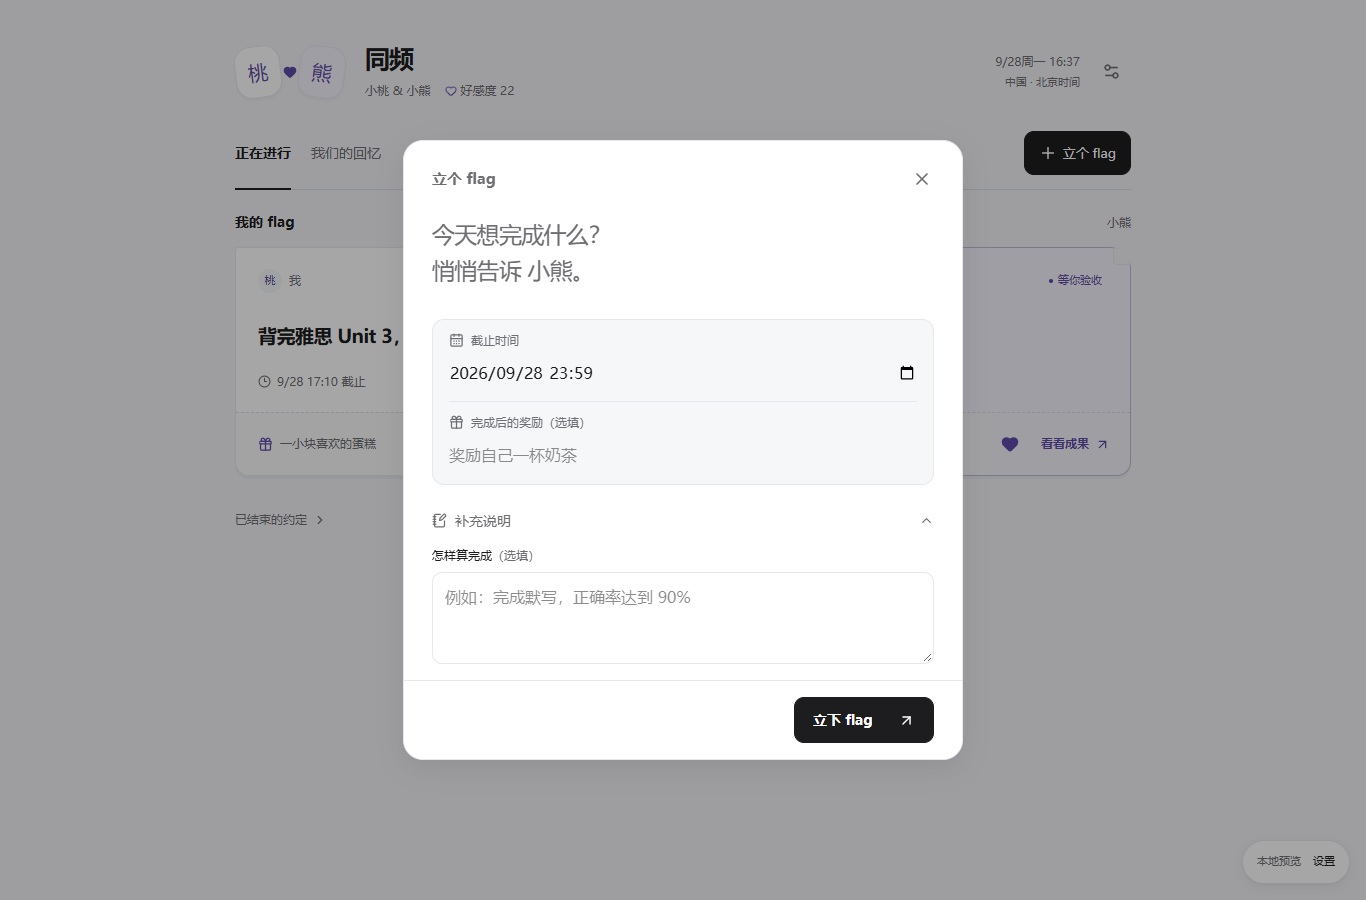
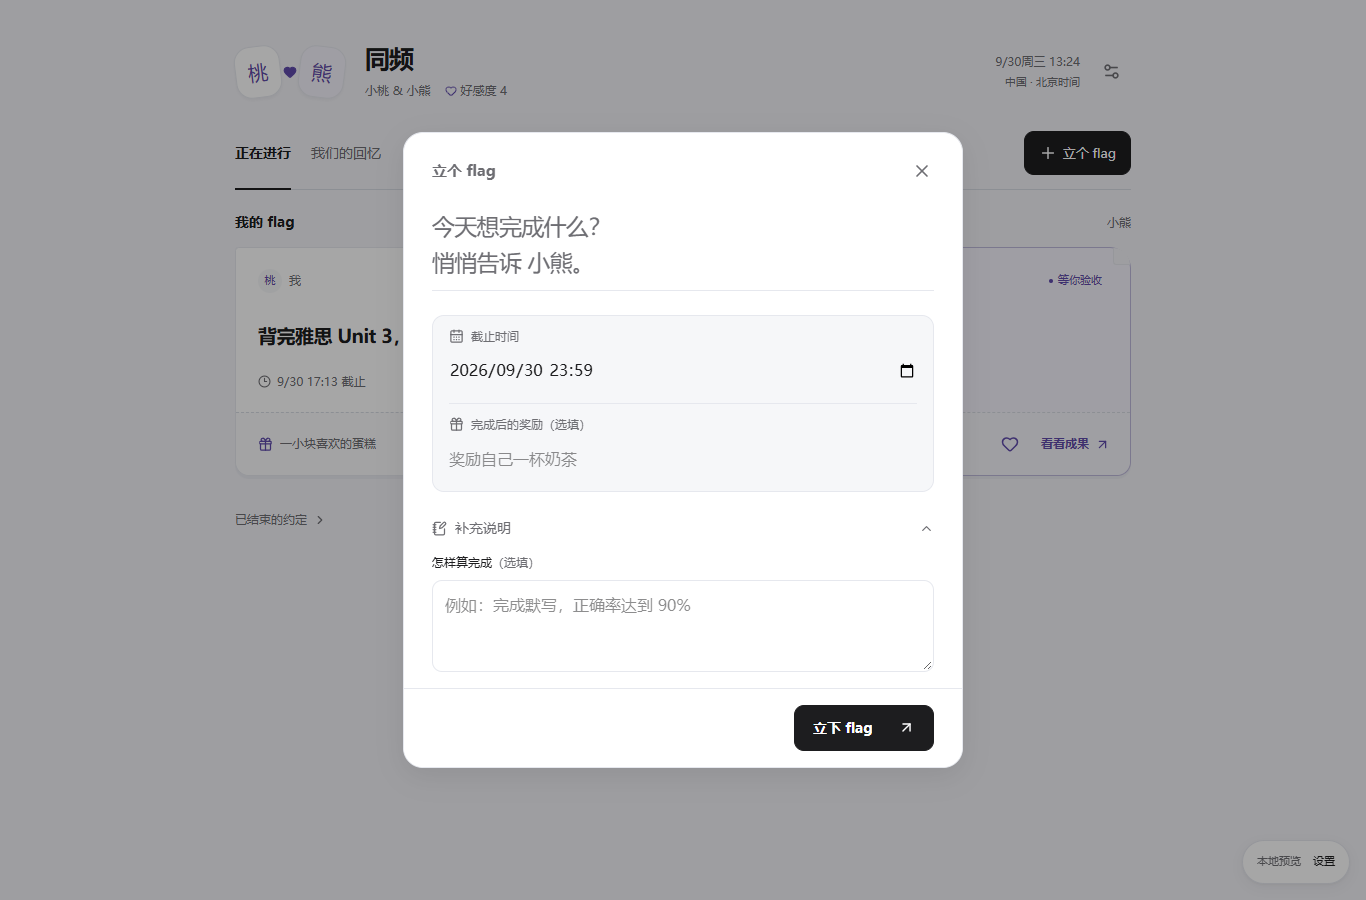
fix(together)：收敛输入焦点并避免描边遮挡标签

diff --git a/e2e/together.spec.ts b/e2e/together.spec.ts
@@ -10,6 +10,66 @@ async function choosePreview(page: Page, label: string, value?: string) {
   await page.locator('.together-preview-dock > summary').click();
 }
 
+/** 验证真实输入焦点不会侵入标签；覆盖自动聚焦、鼠标、键盘和系统高对比度。 */
+test('创建表单的焦点留在字段内，不遮挡标签或改变布局', async ({ page }) => {
+  await page.emulateMedia({ reducedMotion: 'reduce' });
+  await page.goto('/together-preview');
+  for (const mode of ['light', 'dark']) {
+    for (const width of [1366, 320]) {
+      await page.setViewportSize({ width, height: 900 });
+      await page.getByRole('button', { name: '立个 flag', exact: true }).click();
+      const editor = page.getByRole('dialog', { name: '立个 flag', exact: true });
+      const goal = editor.getByLabel('目标', { exact: true });
+      const reward = editor.getByLabel('完成后的奖励（选填）');
+      await expect(goal).toBeFocused();
+      const unfocusedBounds = await reward.boundingBox();
+      // 焦点不得向外扩张，必须仍有可见指示；同时记录用户实际看到的聚焦画面。
+      for (const [field, name] of [
+        [goal, 'goal'],
+        [reward, 'reward'],
+      ] as const) {
+        await field.click();
+        await expect(field).toBeFocused();
+        const indicator = await field.evaluate((node) => {
+          const style = getComputedStyle(node);
+          return { outline: style.outlineStyle, shadow: style.boxShadow };
+        });
+        expect(indicator.outline).toBe('none');
+        expect(indicator.shadow).toContain('inset');
+        expect(indicator.shadow).not.toContain('rgba(0, 0, 0, 0)');
+        if (mode === 'dark')
+          await editor.screenshot({
+            path: `docs/screenshots/together/editor-focus-${name}-${width === 1366 ? 'desktop' : 'mobile'}.png`,
+          });
+      }
+      expect(await reward.boundingBox()).toEqual(unfocusedBounds);
+      const label = await editor
+        .locator('.together-editor-caption')
+        .last()
+        .boundingBox();
+      expect(unfocusedBounds!.y - label!.y - label!.height).toBeGreaterThanOrEqual(6);
+      // 用实际 Tab/Enter 走到折叠说明，再进入文本框，验证焦点不会丢失。
+      await page.keyboard.press('Tab');
+      await expect(editor.locator('summary')).toBeFocused();
+      await page.keyboard.press('Enter');
+      await page.keyboard.press('Tab');
+      const notes = editor.getByLabel('怎样算完成（选填）');
+      await expect(notes).toBeFocused();
+      await expect(notes).toHaveCSS('outline-offset', '-2px');
+      expect(
+        await editor.evaluate((node) => node.scrollWidth <= node.clientWidth),
+      ).toBe(true);
+      await page.emulateMedia({ forcedColors: 'active' });
+      await reward.click();
+      await expect(reward).toHaveCSS('outline-style', 'solid');
+      await expect(reward).toHaveCSS('outline-offset', '-2px');
+      await page.emulateMedia({ forcedColors: 'none' });
+      await page.keyboard.press('Escape');
+    }
+    if (mode === 'light') await choosePreview(page, '切换深浅色');
+  }
+});
+
 test('微信成果、对方验收、昵称与本地时区', async ({ page }) => {
   await page.goto('/together-preview');
   await expect(page.getByRole('heading', { name: '同频', exact: true })).toBeVisible();

diff --git a/src/features/together/flag-editor.css b/src/features/together/flag-editor.css
@@ -30,8 +30,8 @@
 }
 .together-editor .together-editor-goal textarea {
   border: 0;
-  border-radius: 6px;
-  padding: 4px 0;
+  border-radius: 0;
+  padding: 4px 0 10px;
   min-height: 82px;
   max-height: 180px;
   background: transparent;
@@ -40,6 +40,7 @@
   line-height: 1.55;
   letter-spacing: -0.03em;
   resize: none;
+  box-shadow: inset 0 -1px var(--border);
 }
 .together-editor .together-editor-goal textarea::placeholder {
   color: var(--text-secondary);
@@ -57,7 +58,7 @@
 .together-editor label.together-editor-property {
   margin: 0;
   padding: 12px 0 8px;
-  gap: 0;
+  gap: 6px;
 }
 .together-editor-property + .together-editor-property {
   border-top: 1px solid var(--border);
@@ -78,10 +79,16 @@
 .together-editor .together-editor-property input {
   border: 0;
   background: transparent;
-  padding: 7px 0 3px;
+  padding: 4px 0 8px;
   min-height: 44px;
   font-size: 16px;
-  border-radius: 4px;
+  border-radius: 0;
+}
+/* 无边框字段的焦点留在输入区内，避免通用外描边盖住相邻标签。 */
+.together-dialog.together-editor .together-editor-goal textarea:focus-visible,
+.together-dialog.together-editor .together-editor-property input:focus-visible {
+  outline: none;
+  box-shadow: inset 0 -2px var(--accent-text);
 }
 .together-editor details.together-editor-notes {
   margin: 14px 0 0;
@@ -115,6 +122,19 @@
   border-color: var(--border);
   border-radius: 10px;
   line-height: 1.6;
+}
+.together-dialog.together-editor .together-editor-notes textarea:focus-visible {
+  outline: 2px solid var(--accent-text);
+  outline-offset: -2px;
+}
+/* 系统高对比度模式不显示 box-shadow，改用控件内部的系统焦点描边。 */
+@media (forced-colors: active) {
+  .together-dialog.together-editor .together-editor-goal textarea:focus-visible,
+  .together-dialog.together-editor .together-editor-property input:focus-visible,
+  .together-dialog.together-editor .together-editor-notes textarea:focus-visible {
+    outline: 2px solid Highlight;
+    outline-offset: -2px;
+  }
 }
 .together-editor-footer {
   position: sticky;

diff --git a/src/features/together/dialog.tsx b/src/features/together/dialog.tsx
@@ -1,9 +1,16 @@
 /** @fileoverview 原生模态承载编辑和右侧详情，提供焦点隔离、Escape 退出与返回焦点。 */
 'use client';
-import { useEffect, useId, useRef, useState, type ReactNode } from 'react';
+import {
+  useEffect,
+  useId,
+  useRef,
+  useState,
+  type ReactNode,
+  type RefObject,
+} from 'react';
 import { createPortal } from 'react-dom';
 import { X } from 'lucide-react';
-/** 桌面抽屉与手机全屏共用原生 dialog；忙碌时阻止误关闭。 */
+/** 共用原生模态；可见后聚焦可选的字段引用，关闭后返回打开者，忙碌时阻止误关闭。 */
 export function SpaceDialog({
   title,
   children,
@@ -12,6 +19,7 @@ export function SpaceDialog({
   error = '',
   drawer = false,
   className = '',
+  initialFocusRef,
 }: {
   title: string;
   children: ReactNode;
@@ -20,6 +28,7 @@ export function SpaceDialog({
   error?: string;
   drawer?: boolean;
   className?: string;
+  initialFocusRef?: RefObject<HTMLElement | null>;
 }) {
   const ref = useRef<HTMLDialogElement>(null);
   const id = useId();
@@ -28,11 +37,13 @@ export function SpaceDialog({
   useEffect(() => {
     const dialog = ref.current;
     dialog?.showModal();
+    // React autoFocus 可能先于 showModal 执行；可见后再聚焦指定字段。
+    initialFocusRef?.current?.focus({ preventScroll: true });
     return () => {
       dialog?.close();
       previous?.focus();
     };
-  }, [previous]);
+  }, [previous, initialFocusRef]);
   return createPortal(
     <dialog
       ref={ref}

diff --git a/src/features/together/flag-editor.tsx b/src/features/together/flag-editor.tsx
@@ -1,6 +1,6 @@
 /** @fileoverview 目标优先的轻量编辑器；属性集中排列，默认账号当天截止，提交后由服务端锁定。 */
 'use client';
-import { useState, type FormEvent } from 'react';
+import { useRef, useState, type FormEvent } from 'react';
 import {
   CalendarDays,
   ChevronDown,
@@ -27,6 +27,7 @@ export function FlagEditor({
 }) {
   const { user } = useTogether();
   const command = useSpaceCommand();
+  const goalRef = useRef<HTMLTextAreaElement>(null);
   const [zone] = useState(getAccountTimezone);
   const [title, setTitle] = useState(flag?.title ?? '');
   const [reward, setReward] = useState(flag?.reward ?? '');
@@ -57,6 +58,7 @@ export function FlagEditor({
     <SpaceDialog
       title={flag ? '编辑 flag' : '立个 flag'}
       className="together-editor"
+      initialFocusRef={goalRef}
       onClose={onClose}
       {...command}
     >
@@ -65,7 +67,7 @@ export function FlagEditor({
           <label className="together-editor-goal">
             <span className="sr-only">目标</span>
             <textarea
-              autoFocus
+              ref={goalRef}
               required
               rows={2}
               maxLength={100}

diff --git a/docs/together-space.md b/docs/together-space.md
@@ -28,6 +28,22 @@
 
 创建弹窗参考 [Linear 的任务创建流程](https://linear.app/docs/creating-issues)：目标用无外框的大字输入，截止与奖励合并为浅底属性区，补充说明用自定义折叠行展开；桌面主按钮靠右，手机主按钮整行呈现，滚动时底部操作区保持可见。专用样式只作用于目标编辑器，其他详情和设置弹窗保持不变；保留原生日期选择、账号时区、必填校验和错误时输入。新版编辑器另经 320 像素 × 四主题 × 深浅色检查，无横向溢出，axe 无违规。
 
+### 编辑器焦点审计（2026-09-30）
+
+原先的通用 `2px outline + 4px outline-offset` 直接作用于无边框字段：目标聚焦后出现抢眼的大框；奖励字段与标签间距为零，外描边进入标签区域。此前静态截图、axe 与业务闭环未覆盖这些交互状态，不能据此认定焦点设计正确。
+
+参考 [Carbon Text input 的状态与间距规范](https://carbondesignsystem.com/components/text-input/style/) 和 [W3C Focus Visible](https://www.w3.org/WAI/WCAG21/Understanding/focus-visible)，按本项目的紧凑布局落实为：
+
+- 目标保留浅色底线，目标、日期与奖励在聚焦时显示字段内部的 2px 主题色底线；标签与输入框间隔 6px，聚焦不改变尺寸。
+- 完成标准已有完整边框，焦点描边向内绘制；按钮与折叠行继续保留可见焦点，系统高对比度模式回退到内部的系统色描边。
+- 打开编辑器后，在原生模态可见时显式聚焦目标；关闭时仍返回打开按钮，避免 React 的提前聚焦被原生弹窗覆盖。
+
+本轮 7 项浏览器回归、类型检查、模块 lint 与文案同步通过。截图与自动检查包含自动聚焦、点击、Tab/Enter 展开补充说明、深浅色、桌面与 320 像素、高对比度回退；另在 320 像素下复验四主题 × 深浅色，无横向溢出，编辑器 axe 无违规。焦点检查不等同于完整 WCAG 合规认证。业务与后端未改，本轮未重复生产构建或真机验收。
+
+![奖励聚焦时的字段内底线](screenshots/together/editor-focus-reward-desktop.png)
+
+<img src="screenshots/together/editor-focus-goal-mobile.png" width="280" alt="320 像素手机上的目标焦点底线" />
+
 ## 操作与时间规则
 
 - 目标 1–100 字、补充说明最多 1,000 字、自定奖励最多 200 字。默认截止为创建者账号当日 23:59。

diff --git a/README.md b/README.md
@@ -90,7 +90,7 @@ pnpm dev
 
 ## 文档导航
 
-两人空间的情侣入口名为「同频」，支持唯一对象绑定、好友/情侣称呼、单人 flag、微信成果声明、对方验收和文字惊喜。创建时先写目标，截止与奖励集中为紧凑属性区；奖励和完成标准在标题旁标为「（选填）」；目标按「我的 flag / 对方的 flag」分栏展示为便笺卡片，卡上可直接为对方加油；回忆按本地日期呈现双方独立的时间轴；每个人看到自己的账号时区，页头显示本地时间。启用前需应用新增数据库迁移；详见 [两人空间设计与部署](docs/together-space.md)、[完整话术清单](docs/together-copy.md)。
+两人空间的情侣入口名为「同频」，支持唯一对象绑定、好友/情侣称呼、单人 flag、微信成果声明、对方验收和文字惊喜。创建时先写目标，截止与奖励集中为紧凑属性区；输入焦点用字段内的底线提示，不遮挡标题，奖励和完成标准在标题旁标为「（选填）」；目标按「我的 flag / 对方的 flag」分栏展示为便笺卡片，卡上可直接为对方加油；回忆按本地日期呈现双方独立的时间轴；每个人看到自己的账号时区，页头显示本地时间。启用前需应用新增数据库迁移；详见 [两人空间设计与部署](docs/together-space.md)、[完整话术清单](docs/together-copy.md)。
 
 | 想了解什么               | 从这里开始                                                                                                          |
 | :----------------------- | :------------------------------------------------------------------------------------------------------------------ |
